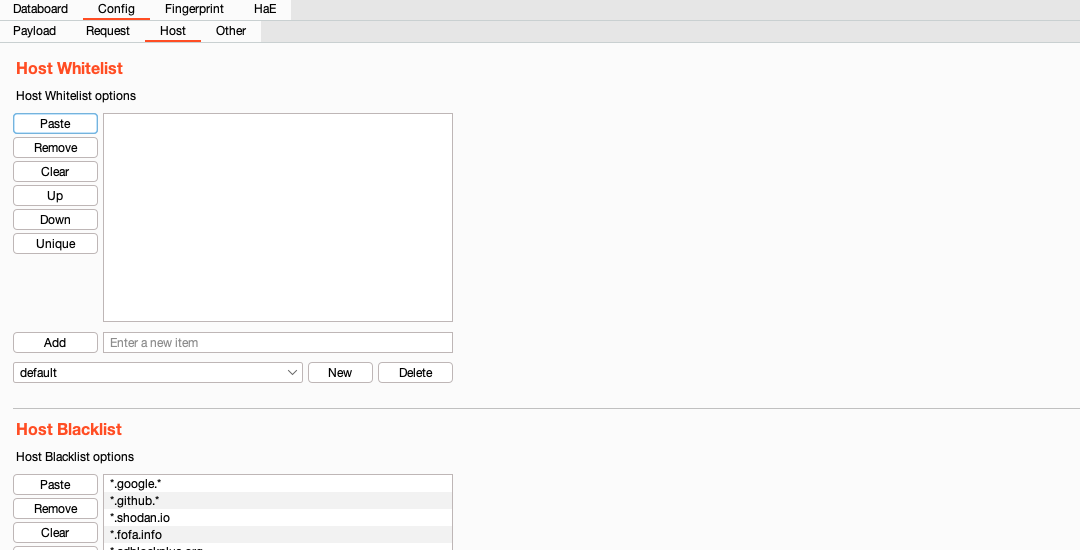
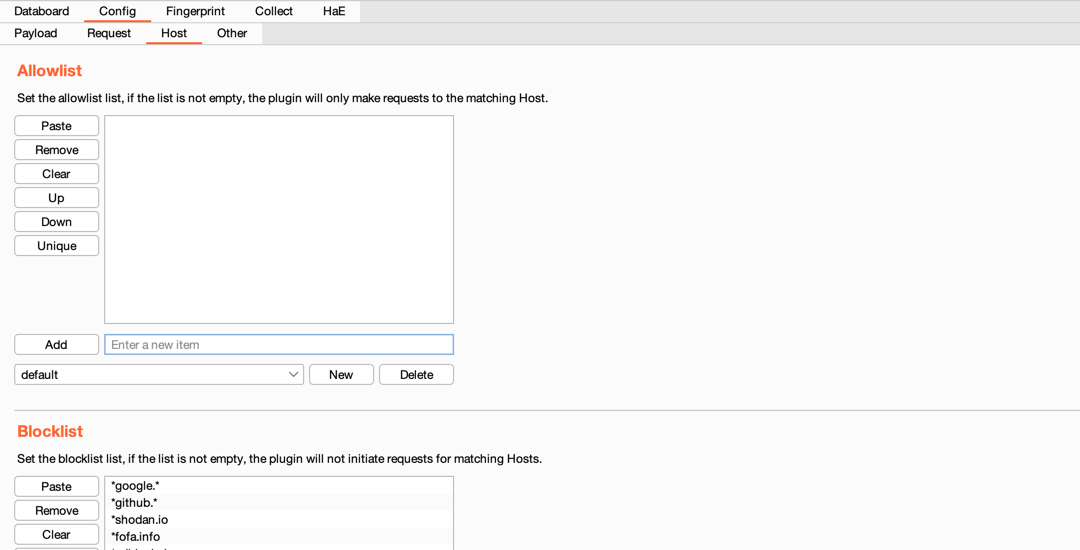
更新说明文档，更新插件截图

Changed region(s): [[0.0, 0.0, 1.0, 0.4636], [0.0, 0.7418, 1.0, 1.0], [0.0, 0.5564, 0.4278, 0.7109]]

diff --git a/README.md b/README.md
@@ -4,7 +4,6 @@
 <div align="center">
 
 [![Repo stars](https://img.shields.io/github/stars/vaycore/OneScan)](https://github.com/vaycore/OneScan/stargazers)
-[![Commit activity](https://img.shields.io/github/commit-activity/m/vaycore/OneScan?label=Commit)](https://github.com/vaycore/OneScan/commits/)
 [![Downloads total](https://img.shields.io/github/downloads/vaycore/OneScan/total?label=Downloads)](https://github.com/vaycore/OneScan/releases)
 [![Repo tags](https://img.shields.io/github/v/tag/vaycore/OneScan?label=Latest)](https://github.com/vaycore/OneScan/tags)
 [![Downloads latest total](https://img.shields.io/github/downloads/vaycore/OneScan/latest/total?label=Downloads@latest)](https://github.com/vaycore/OneScan/releases)
@@ -121,11 +120,11 @@ C:\Users\<用户名>\.config\OneScan\
 
 ![](imgs/main_panel.png)
 
-- `Listen Proxy Message` 开关被动扫描（默认禁用），代理的请求包都会经过 OneScan（建议配置白名单后启用）
+- `Listen Proxy Message` 开关被动扫描（默认禁用），代理的请求包都会经过 OneScan 插件（建议配置白名单后启用）
 - `Remove Header` 开关移除请求头（默认禁用），根据 `Request -> Remove header` 里的配置，移除请求头中对应的值
 - `Replace Header` 开关请求头替换（默认启用），使用 `Request -> Header` 中配置的请求头请求数据
 - `DirScan` 开关递归扫描（默认启用），对目标进行递归扫描
-- `Payload Processing` 开关 Payload Processing 功能（默认启用）
+- `Payload Processing` 开关请求包处理功能（默认启用）
 - `Filter` 设置数据过滤规则
 - `Import url` 导入 URL 目标扫描
 - `Stop` 停止正在扫描的任务
@@ -189,8 +188,8 @@ Host配置界面如下
 
 ![](imgs/config_host.png)
 
-- `Host Allowlist` 配置白名单列表，如果该列表不为空，插件则只能请求该列表中的 Host
-- `Host Blocklist` 配置黑名单列表，插件不对该列表配置的 Host 进行请求
+- `Allowlist` 配置白名单列表，如果该列表不为空，插件只对匹配的 Host 进行请求
+- `Blocklist` 配置黑名单列表，如果该列表不为空，插件不会向匹配的 Host 发起请求
 
 #### Other（其它配置）
 
@@ -201,7 +200,7 @@ Other配置界面如下
 - `Maximum display length` 限制请求、响应包的最大显示长度（插件 `1.6.11` 版本新增）
 - `Collect directory` 数据收集存放目录
 - `Wordlist Directory` 插件`1.0.0`版本新增字典管理，此目录下包含所有字典文件的配置
-- `HaE` 配置 [HaE](https://github.com/gh0stkey/HaE) 插件 JAR 包路径，与 [HaE](https://github.com/gh0stkey/HaE) 联动，实现主面板数据高亮
+- `HaE` 配置 [HaE](https://github.com/gh0stkey/HaE) 插件 JAR 包路径，与 [HaE](https://github.com/gh0stkey/HaE) 联动，使数据看板里的敏感信息高亮
 - `Clear cache` 清除指纹识别缓存（缓存用于加快指纹识别的速度）
 
 ### Fingerprint指纹
@@ -301,7 +300,7 @@ Connection: close
 
 ## 项目热度
 
-非常感谢各位师傅关注此项目
+非常感谢各位师傅的关注和支持（如果觉得项目还不错，请给项目一个 `Star` 吧）
 
 [![Stargazers over time](https://starchart.cc/vaycore/OneScan.svg?variant=adaptive)](https://starchart.cc/vaycore/OneScan)
 
